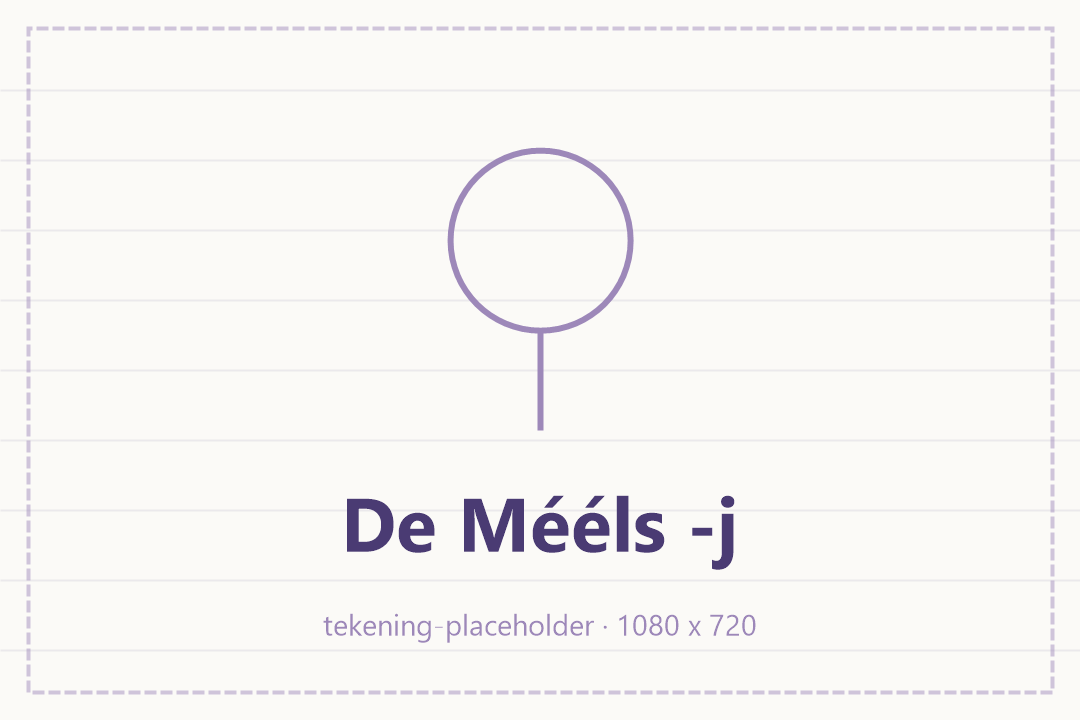
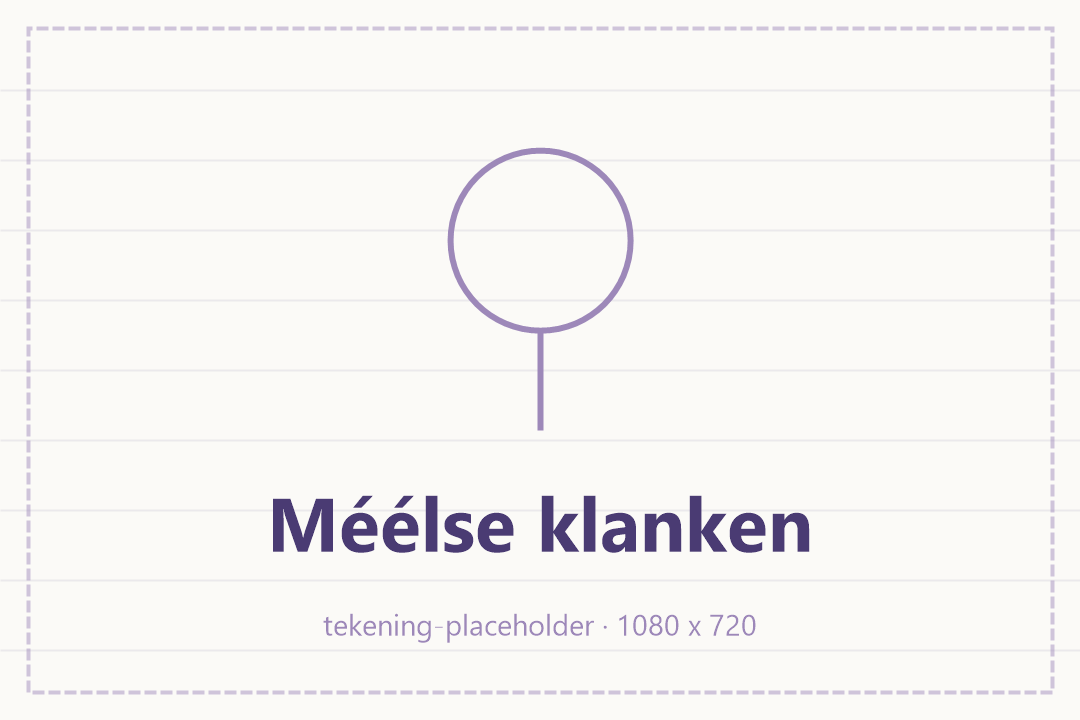
Subject path: square image cards on a dashed bezier; expand "Méélse klanken"
- Subject screen redesigned: lessons are now square image cards winding
  left/right down the screen, joined by an SVG dashed cubic-bezier curve
  (replaces the circular nodes + straight line).
- Each lesson card has a placeholder image (assets/img/lessons/<id>.png, 16
  generated 480x480 sketch placeholders) with the title + done check overlaid.
- Renamed the mouillering subject to "Méélse klanken" and gave its lessons real
  names covering documented sound-changes: De -j na de ij, De -j na de ui,
  Korte klinkers (hemel→himmel…), Lange klinkers (kar→kaar…). New vowel-change
  vocab added; the spelling exercise now takes a per-lesson hint.

Changed region(s): [[0.2444, 0.6722, 0.7639, 0.7944]]

diff --git a/src/renderer/js/screens/subject.js b/src/renderer/js/screens/subject.js
@@ -1,23 +1,23 @@
 'use strict';
 
-// Subject screen: a Duolingo-style winding path from the first lesson to the last,
-// plus the subject's top-5 leaderboard alongside.
+// Subject screen: a Duolingo-style path of square lesson cards winding
+// left↔right down the screen, joined by a dashed bezier curve, alongside the
+// subject's top-5 leaderboard.
 
 import { el, clear } from '../util.js';
 import { leaderboardEl } from '../leaderboard.js';
 
 const ASSET_IMG = '../../assets/img/';
-const WAVE = [0, 1, 0, -1]; // gentle left–right snake, repeats every 4 nodes
-const AMP = 120;            // px horizontal swing
+const SVGNS = 'http://www.w3.org/2000/svg';
 
 export function renderSubject(root, ctx, params) {
   clear(root);
   const unit = (ctx.course.units || []).find((u) => u.id === params.unitId);
   if (!unit) return ctx.navigate('home');
+  const lessons = unit.lessons || [];
 
   const back = el('button', {
-    class: 'icon-btn',
-    'aria-label': 'Terug',
+    class: 'icon-btn', 'aria-label': 'Terug',
     onclick: () => ctx.navigate('home')
   }, '←');
 
@@ -29,25 +29,58 @@ export function renderSubject(root, ctx, params) {
     el('h1', { class: 'subject-head__title' }, unit.title)
   ]);
 
-  const path = el('div', { class: 'lesson-path' },
-    (unit.lessons || []).map((lesson, i) => {
-      const done = ctx.session.completed.has(lesson.id);
-      const off = WAVE[i % WAVE.length] * AMP;
-      return el('button', {
-        class: 'path-node' + (done ? ' is-done' : ''),
-        style: '--off:' + off + 'px',
-        onclick: () => ctx.navigate('lesson', { unitId: unit.id, lessonId: lesson.id })
-      }, [
-        el('span', { class: 'path-node__circle' }, done ? '✓' : String(i + 1)),
-        el('span', { class: 'path-node__label' }, lesson.title)
-      ]);
-    }));
+  // node centres, in 0..100 space; winding left/right
+  const pts = lessons.map((_, i) => ({
+    x: i % 2 === 0 ? 28 : 72,
+    y: ((i + 0.5) / lessons.length) * 100
+  }));
+
+  const path = el('div', { class: 'lesson-path' });
+  path.appendChild(buildCurve(pts));
+  lessons.forEach((lesson, i) => path.appendChild(buildCard(lesson, pts[i], ctx, unit.id)));
 
   const board = el('aside', { class: 'subject-aside' }, [leaderboardEl(unit.id, '')]);
-
   const body = el('div', { class: 'subject-body' }, [
     el('div', { class: 'lesson-path-wrap' }, [path]),
     board
   ]);
   root.appendChild(el('div', { class: 'screen subject' }, [heading, body]));
+}
+
+function buildCard(lesson, pt, ctx, unitId) {
+  const done = ctx.session.completed.has(lesson.id);
+  const kids = [];
+  if (lesson.image) {
+    kids.push(el('img', { class: 'path-card__img', src: ASSET_IMG + lesson.image, alt: '', onerror: function () { this.remove(); } }));
+  }
+  if (done) kids.push(el('span', { class: 'path-card__check' }, '✓'));
+  kids.push(el('span', { class: 'path-card__title' }, lesson.title));
+
+  return el('button', {
+    class: 'path-card' + (done ? ' is-done' : ''),
+    style: `left:${pt.x}%; top:${pt.y}%`,
+    onclick: () => ctx.navigate('lesson', { unitId, lessonId: lesson.id })
+  }, kids);
+}
+
+// Dashed cubic-bezier S-curve through the node centres.
+function buildCurve(pts) {
+  const svg = document.createElementNS(SVGNS, 'svg');
+  svg.setAttribute('class', 'path-svg');
+  svg.setAttribute('viewBox', '0 0 100 100');
+  svg.setAttribute('preserveAspectRatio', 'none');
+
+  let d = '';
+  pts.forEach((p, i) => {
+    if (i === 0) { d += `M ${p.x} ${p.y}`; return; }
+    const prev = pts[i - 1];
+    const midY = (prev.y + p.y) / 2;
+    d += ` C ${prev.x} ${midY} ${p.x} ${midY} ${p.x} ${p.y}`;
+  });
+
+  const path = document.createElementNS(SVGNS, 'path');
+  path.setAttribute('class', 'path-curve');
+  path.setAttribute('d', d);
+  svg.appendChild(path);
+  return svg;
 }

diff --git a/src/renderer/css/styles.css b/src/renderer/css/styles.css
@@ -142,42 +142,34 @@ body.has-bg { background-size: cover; background-position: center; }
 
 .subject-body { flex: 1; display: flex; gap: clamp(20px, 2.5vw, 44px); min-height: 0; }
 
-/* Duolingo-style winding lesson path: nodes snake left↔right down a centre guide. */
-.lesson-path-wrap { flex: 1; min-height: 0; overflow-y: auto; display: flex; justify-content: center; }
-.lesson-path {
-  position: relative;
-  display: flex; flex-direction: column; align-items: center;
-  gap: clamp(18px, 3vh, 44px);
-  padding: 24px 0 40px;
+/* Duolingo-style path: square lesson cards winding left↔right, joined by a
+   dashed bezier curve drawn behind them. */
+.lesson-path-wrap { flex: 1; min-height: 0; overflow-y: auto; }
+.lesson-path { position: relative; width: 100%; height: 100%; min-height: 700px; }
+.path-svg { position: absolute; inset: 0; width: 100%; height: 100%; pointer-events: none; z-index: 0; }
+.path-curve {
+  fill: none; stroke: var(--purple); stroke-width: 3; opacity: 0.65;
+  stroke-dasharray: 7 9; stroke-linecap: round; vector-effect: non-scaling-stroke;
 }
-.lesson-path::before {
-  content: ""; position: absolute; top: 40px; bottom: 40px; left: 50%;
-  width: 4px; transform: translateX(-50%);
-  background: repeating-linear-gradient(var(--line) 0 10px, transparent 10px 22px);
+.path-card {
+  position: absolute; transform: translate(-50%, -50%); z-index: 1; padding: 0;
+  width: clamp(140px, 18vh, 200px); aspect-ratio: 1;
+  background: var(--surface); border: 1px solid var(--line); border-radius: var(--radius);
+  overflow: hidden; cursor: pointer; box-shadow: var(--shadow);
+  transition: transform 0.12s ease, box-shadow 0.12s ease; font: inherit; color: inherit;
 }
-.path-node {
-  position: relative; z-index: 1;
-  transform: translateX(var(--off, 0));
-  display: flex; flex-direction: column; align-items: center; gap: 10px;
-  background: none; border: none; cursor: pointer; font: inherit; color: inherit;
-  transition: transform 0.12s ease;
+.path-card:active { transform: translate(-50%, -50%) scale(0.95); box-shadow: var(--shadow-s); }
+.path-card.is-done { border-color: var(--go); }
+.path-card__img { position: absolute; inset: 0; width: 100%; height: 100%; object-fit: cover; }
+.path-card__title {
+  position: absolute; left: 0; right: 0; bottom: 0; padding: 10px 12px;
+  font-size: clamp(14px, 1.4vw, 18px); font-weight: 800; color: #fff;
+  background: linear-gradient(transparent, rgba(74, 59, 115, 0.85));
 }
-.path-node:active { transform: translateX(var(--off, 0)) scale(0.92); }
-.path-node__circle {
-  width: clamp(84px, 9vh, 124px); height: clamp(84px, 9vh, 124px);
-  border-radius: 50%; display: grid; place-items: center;
-  font-size: clamp(28px, 3.2vh, 42px); font-weight: 800; color: #fff;
-  background: linear-gradient(160deg, var(--purple), var(--purple-d));
-  box-shadow: 0 8px 0 var(--purple-dd), var(--shadow);
-}
-.path-node.is-done .path-node__circle {
-  background: linear-gradient(160deg, var(--go), var(--go-d));
-  box-shadow: 0 8px 0 var(--go-d), var(--shadow);
-}
-.path-node__label {
-  font-size: clamp(14px, 1.5vw, 19px); font-weight: 700; color: var(--ink-soft);
-  background: var(--white); padding: 4px 14px; border-radius: 999px;
-  max-width: 240px; text-align: center;
+.path-card__check {
+  position: absolute; top: 8px; right: 8px; z-index: 2;
+  width: 34px; height: 34px; border-radius: 50%; display: grid; place-items: center;
+  background: var(--go); color: #fff; font-weight: 800; box-shadow: var(--shadow-s);
 }
 
 .subject-aside { flex: 0 0 34%; min-width: 300px; }

diff --git a/src/renderer/js/exercises/mouillering.js b/src/renderer/js/exercises/mouillering.js
@@ -35,6 +35,7 @@ export function mountMouillering(stage, item, api) {
       el('div', { class: 'prompt__word' }, item.prompt.nl)
     ])
   );
-  stage.appendChild(el('p', { class: 'mouillering-hint' }, 'Let op de Méélse mouillering — de -j na ei / ij / ui'));
+  const hint = item.hint || 'Let op de Méélse mouillering — de -j na ei / ij / ui';
+  stage.appendChild(el('p', { class: 'mouillering-hint' }, hint));
   stage.appendChild(grid);
 }

diff --git a/src/renderer/js/engine.js b/src/renderer/js/engine.js
@@ -123,5 +123,5 @@ function buildMouillering(spec, pool) {
     wrong = wrong.concat(others);
   }
   const options = shuffle([entry.meels, ...wrong.slice(0, OPTION_COUNT - 1)]);
-  return { type: 'mouillering', prompt: entry, answer: entry.meels, options };
+  return { type: 'mouillering', prompt: entry, answer: entry.meels, options, hint: spec.hint || null };
 }

diff --git a/CONTENT_REVIEW.md b/CONTENT_REVIEW.md
@@ -4,7 +4,7 @@ Alle vertalingen zijn **voorstellen** (status `review`). Een Meijelse moedertaal
 controleert elke regel en zet daarna in `content/course.json` de `status` op `approved`.
 Woorden die in het Mééls exact gelijk zijn aan het Nederlands zijn bewust weggelaten.
 
-- 🟢 **Gedocumenteerd** (protmermeels.nl / medelo.nl, mouillering) — vrij zeker.
+- 🟢 **Gedocumenteerd** (protmermeels.nl / medelo.nl: mouillering + klinkerveranderingen) — vrij zeker.
 - 🟡 **Best-effort** — controleer extra zorgvuldig.
 
 ## Goojendaag — begroeten
@@ -24,26 +24,26 @@ Woorden die in het Mééls exact gelijk zijn aan het Nederlands zijn bewust wegg
 | hoe-gaat-het | hoe gaat het | wie geit 't | 🟡 |  | zin voor de woordbank |
 | tot-morgen | tot morgen | tot mèrge | 🟡 |  | zin voor de woordbank |
 
-## De Méélse -j (mouillering)
+## Méélse klanken
 
 | id | Nederlands | Mééls (voorstel) | bron | ✔/✘ | opmerking |
 |---|---|---|---|---|---|
-| huis | huis | husj | 🟢 |  | mouillering |
-| geit | geit | géétj | 🟢 |  | mouillering |
-| tijd | tijd | titj | 🟢 |  | mouillering |
-| buiten | buiten | butje | 🟢 |  | mouillering |
-| muis | muis | meusj | 🟢 |  | mouillering |
-| wijn | wijn | winj | 🟢 |  | mouillering |
-| prijs | prijs | prisj | 🟢 |  | mouillering |
-| bruin | bruin | brunj | 🟢 |  | mouillering |
-| kwijt | kwijt | kwitj | 🟢 |  | mouillering |
-| ruiten | ruiten | rutje | 🟢 |  | mouillering |
-| grijs | grijs | grisj | 🟢 |  | mouillering |
-| pijn | pijn | pinj | 🟢 |  | mouillering |
-| wijs | wijs | wisj | 🟢 |  | mouillering |
-| meid | meid | métj | 🟢 |  | mouillering |
-| luis | luis | leusj | 🟢 |  | mouillering |
-| buis | buis | beusj | 🟢 |  | mouillering |
+| tijd | tijd | titj | 🟢 |  | mouillering ij |
+| wijn | wijn | winj | 🟢 |  | mouillering ij |
+| prijs | prijs | prisj | 🟢 |  | mouillering ij |
+| kwijt | kwijt | kwitj | 🟢 |  | mouillering ij |
+| huis | huis | husj | 🟢 |  | mouillering ui |
+| buiten | buiten | butje | 🟢 |  | mouillering ui |
+| muis | muis | meusj | 🟢 |  | mouillering ui |
+| luis | luis | leusj | 🟢 |  | mouillering ui |
+| hemel | hemel | himmel | 🟢 |  | korte klinker |
+| lepel | lepel | lippel | 🟢 |  | korte klinker |
+| staart | staart | start | 🟢 |  | korte klinker |
+| gebleven | gebleven | geblivve | 🟢 |  | korte klinker |
+| kar | kar | kaar | 🟢 |  | lange klinker |
+| hand | hand | haant | 🟢 |  | lange klinker |
+| kom | kom | koom | 🟢 |  | lange klinker |
+| tak | tak | taak | 🟡 |  | lange klinker |
 
 ## Femilie en mènse
 
@@ -86,4 +86,4 @@ Woorden die in het Mééls exact gelijk zijn aan het Nederlands zijn bewust wegg
 
 ## Meerkeuze-afleiders
 
-Naast het juiste woord tonen meerkeuzevragen twee **gelijkende echte** woorden en één **geloofwaardig FOUT** woord (veld `near`). De mouillering-oefening gebruikt `distractors` (incl. de gewone Nederlandse vorm).
+Naast het juiste woord tonen meerkeuzevragen twee **gelijkende echte** woorden en één **geloofwaardig FOUT** woord (veld `near`). De klank-oefeningen (mouillering / klinkers) gebruiken `distractors` (incl. de gewone Nederlandse vorm).

diff --git a/README.md b/README.md
@@ -51,9 +51,12 @@ museum PC and run **`ProtMerMeels.exe`** (launches fullscreen kiosk).
 | Subject | Teaches |
 |---|---|
 | **Goojendaag — begroeten** | Greetings & courtesy |
-| **De Méélse -j (mouillering)** | The signature feature: the *-j* after *ei/ij/ui* (*husj*, *titj*, *géétj*) — all 16 documented forms |
+| **Méélse klanken** | Mééls sound-changes: mouillering (the *-j* after *ij/ui*: *husj*, *titj*) **plus** vowel shortening (*hemel→himmel*) and lengthening (*kar→kaar*) |
 | **Femilie en mènse** | Family & people |
 | **In ’t dörp** | Village & everyday life |
+
+The subject screen shows the four lessons as a winding path of square image cards
+joined by a dashed bezier curve.
 
 **Exercise types** (all tap-only — no keyboard needed): multiple choice, match pairs,
 listen-and-pick, word bank, and the mouillering spelling picker. Because Mééls is close
@@ -121,6 +124,7 @@ replace them with the real artwork at the same paths/sizes:
 | `assets/img/subjects/mouillering.png` | 1080×720 | subject card |
 | `assets/img/subjects/family.png` | 1080×720 | subject card |
 | `assets/img/subjects/village.png` | 1080×720 | subject card |
+| `assets/img/lessons/<lessonId>.png` | 480×480 (square) | the lesson card on the subject path (16 of them, e.g. `moui-1.png`) |
 | `assets/img/turfsteker.png` | 720×1500 | the **Turfsteker** mascot (right of the menu) |
 | `assets/img/background.png` *(optional)* | full-screen | menu background; if absent, the background is white (house style) |
 
